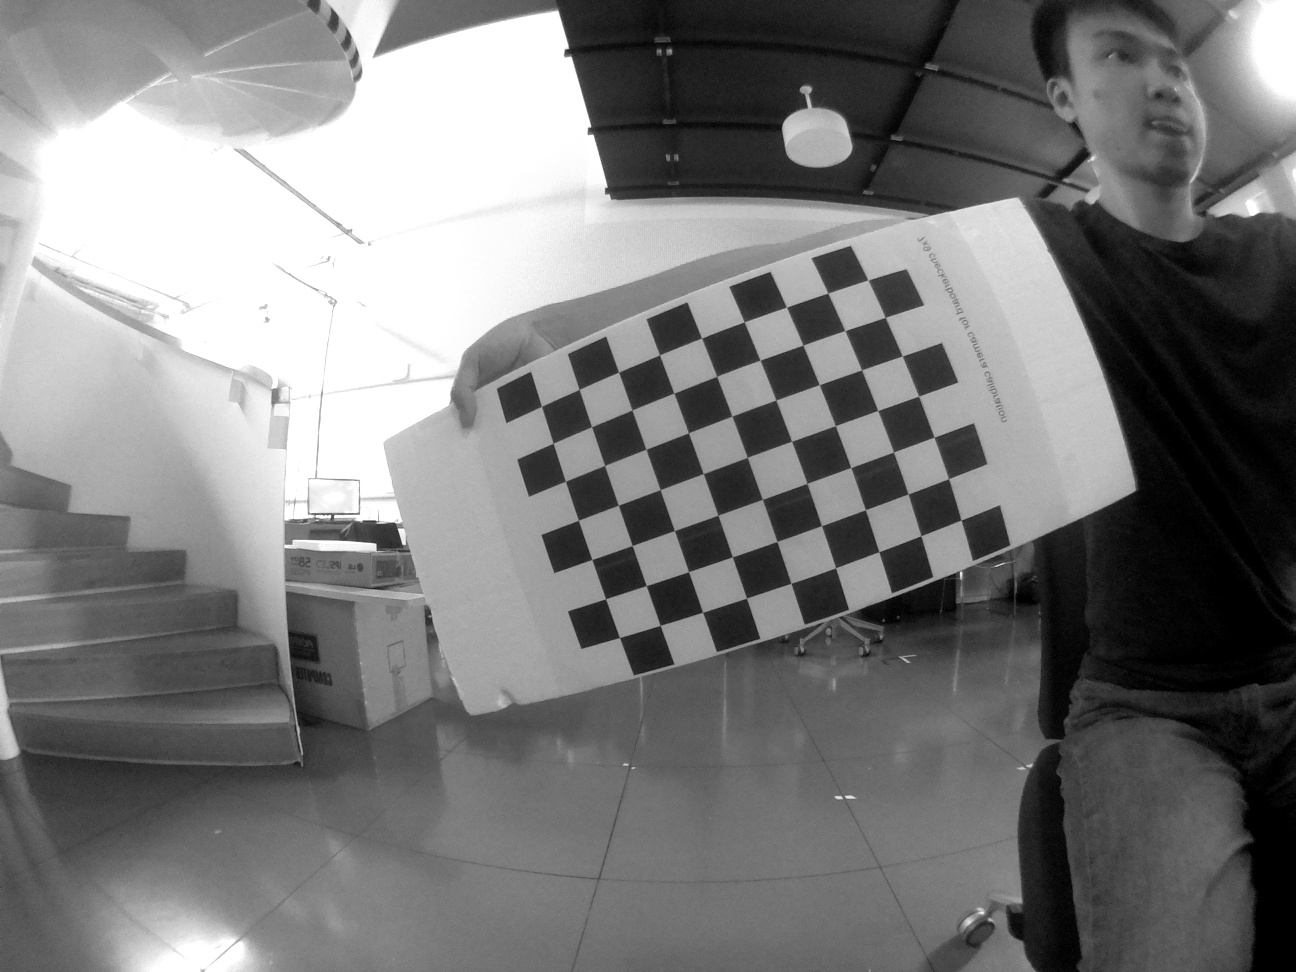
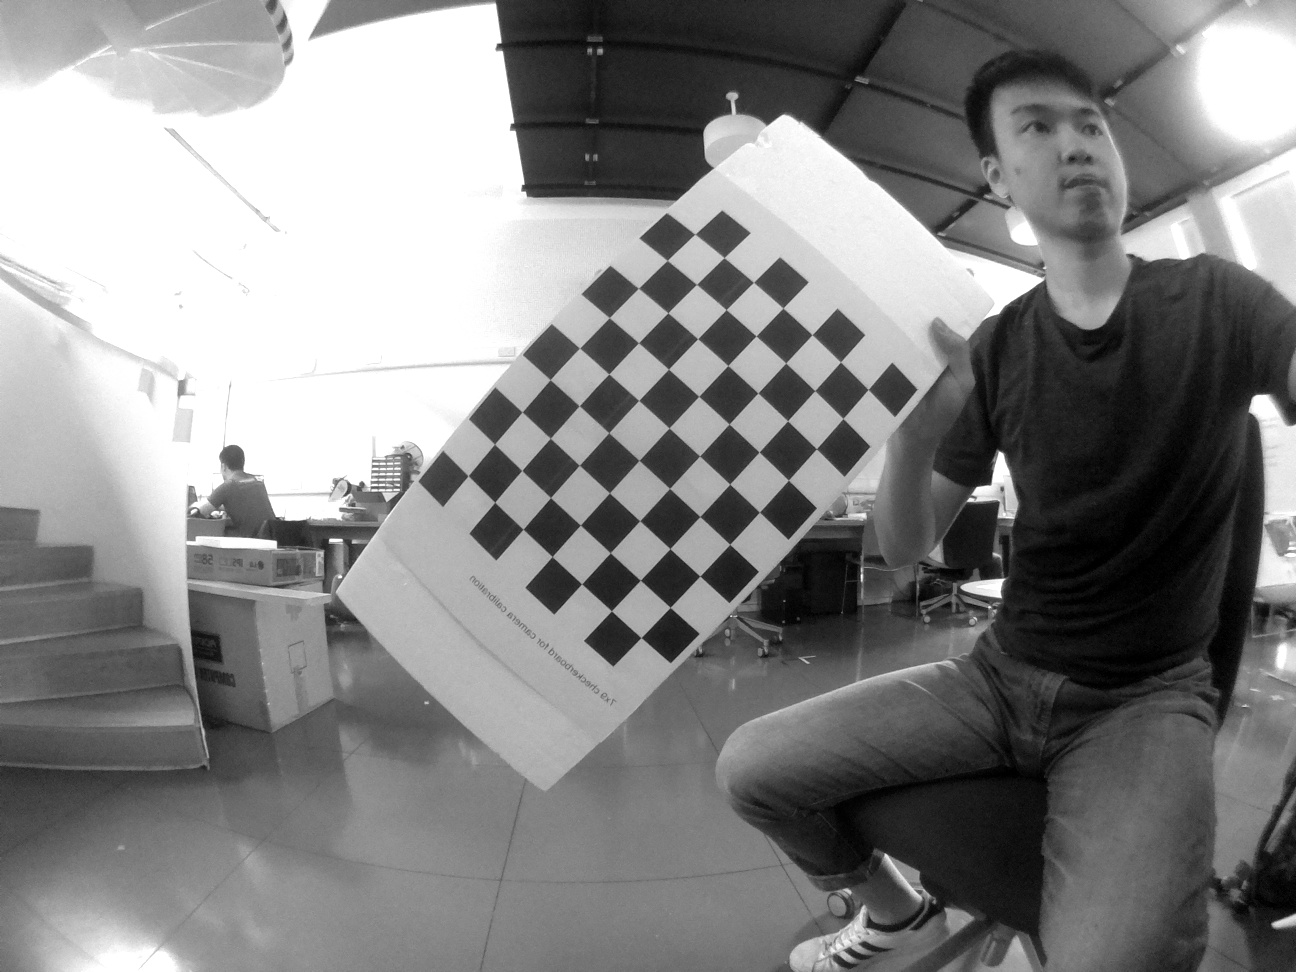
from pi3

diff --git a/code/camera_test.py b/code/camera_test.py
@@ -4,8 +4,11 @@ import cv2
 import os
 
 DIM=(1296, 972)
-K=np.array([[997.551893721721, 0.0, 687.7294333541034], [0.0, 978.8712456908783, 531.7489136875715], [0.0, 0.0, 1.0]])
-D=np.array([[-0.9650982224055676], [3.9746324351959803], [-8.272823265948313], [6.303281784060654]])
+#K=np.array([[667.4253620186365, 0.0, 665.3337941912987], [0.0, 666.6926950499752, 512.8714547379312], [0.0, 0.0, 1.0]])
+#D=np.array([[-0.09331815947691117], [0.0074212536566708245], [-0.013219554885738054], [0.012104813850408304]])
+K=np.array([[732.3522413170597, 0.0, 665.8885698012476], [0.0, 729.0931362872735, 525.4529490954391], [0.0, 0.0, 1.0]])
+D=np.array([[-0.09586431729880242], [0.033758571018492424], [-0.16763638449016888], [0.11831395460567679]])
+
 
 def undistort(img, balance=1.0, dim2=None, dim3=None):
 
@@ -29,16 +32,14 @@ def undistort(img, balance=1.0, dim2=None, dim3=None):
     return undistorted_img
 
 cap = cv2.VideoCapture(0)
-cap.set(cv2.CAP_PROP_FRAME_WIDTH,DIM[0])
-cap.set(cv2.CAP_PROP_FRAME_HEIGHT,DIM[1])
+cap.set(cv2.CAP_PROP_FRAME_WIDTH,DIM[0]/4)
+cap.set(cv2.CAP_PROP_FRAME_HEIGHT,DIM[1]/4)
 cap.set(cv2.CAP_PROP_FPS, 30)
 fw = int(cap.get(cv2.CAP_PROP_FRAME_WIDTH))
 fh = int(cap.get(cv2.CAP_PROP_FRAME_HEIGHT))
 print("Frame size: {}*{}".format(fw, fh))
-# Define the codec and create VideoWriter object
-#fourcc = cv2.VideoWriter_fourcc(*'XVID')
-#out = cv2.VideoWriter(sys.argv[1],fourcc, 20.0, (fw,fh))
-picture_num = 39
+
+picture_num = 10
 column_num = 0
 if(cap.isOpened()):
     while(1):
@@ -50,15 +51,14 @@ if(cap.isOpened()):
             # write the flipped frame
             #out.write(frame)
             # undistorte image
-#            gray = undistort(gray, 1.0)
+            gray = undistort(gray, 1.0)
 #            gray = gray[50:-50,10:-10]
 
             # draw lines on image for calibration angles
-#            gray = cv2.line(gray,(column_num, 1),(column_num, fh),(255,255,0),1)
-#            gray = cv2.line(gray,(int(fw/2), 1),(int(fw/2), fh),(255,255,0),1)
-            
-            #print(gray.shape)
-            cv2.imshow('frame', cv2.resize(gray, (0, 0), fx=0.5, fy=0.5))
+            gray = cv2.line(gray,(column_num, 1),(column_num, fh),(255,255,0),1)
+            gray = cv2.line(gray,(int(fw/2), 1),(int(fw/2), fh),(255,255,0),1)
+
+            cv2.imshow('frame', cv2.resize(gray, (0, 0), fx=2, fy=2))
             ch = 0xFF & cv2.waitKey(1)
             if ch == ord('q'):
                 break
@@ -79,5 +79,4 @@ else:
     print('No camera!')
 # Release everything if job is finished
 cap.release()
-#out.release()
 cv2.destroyAllWindows()
